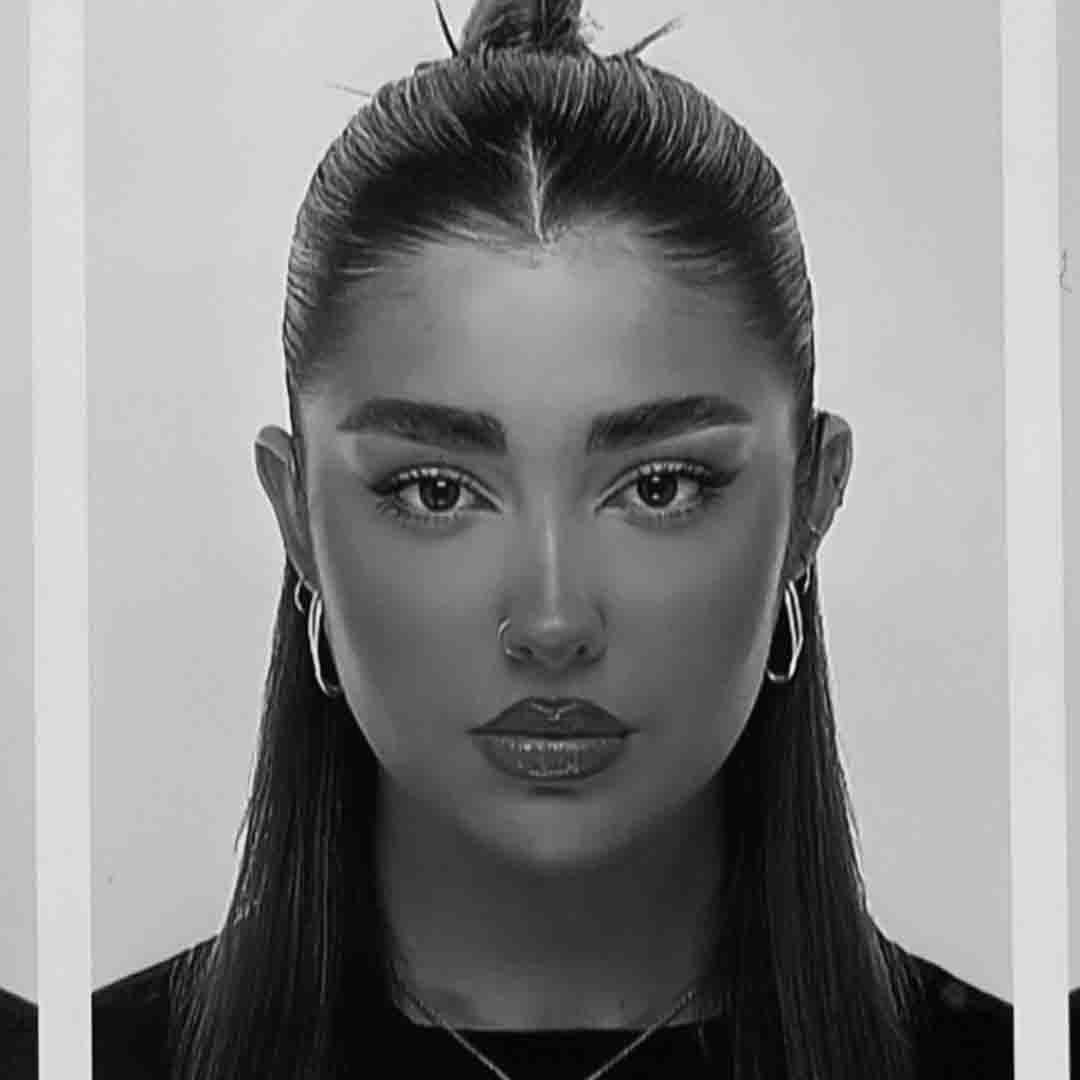
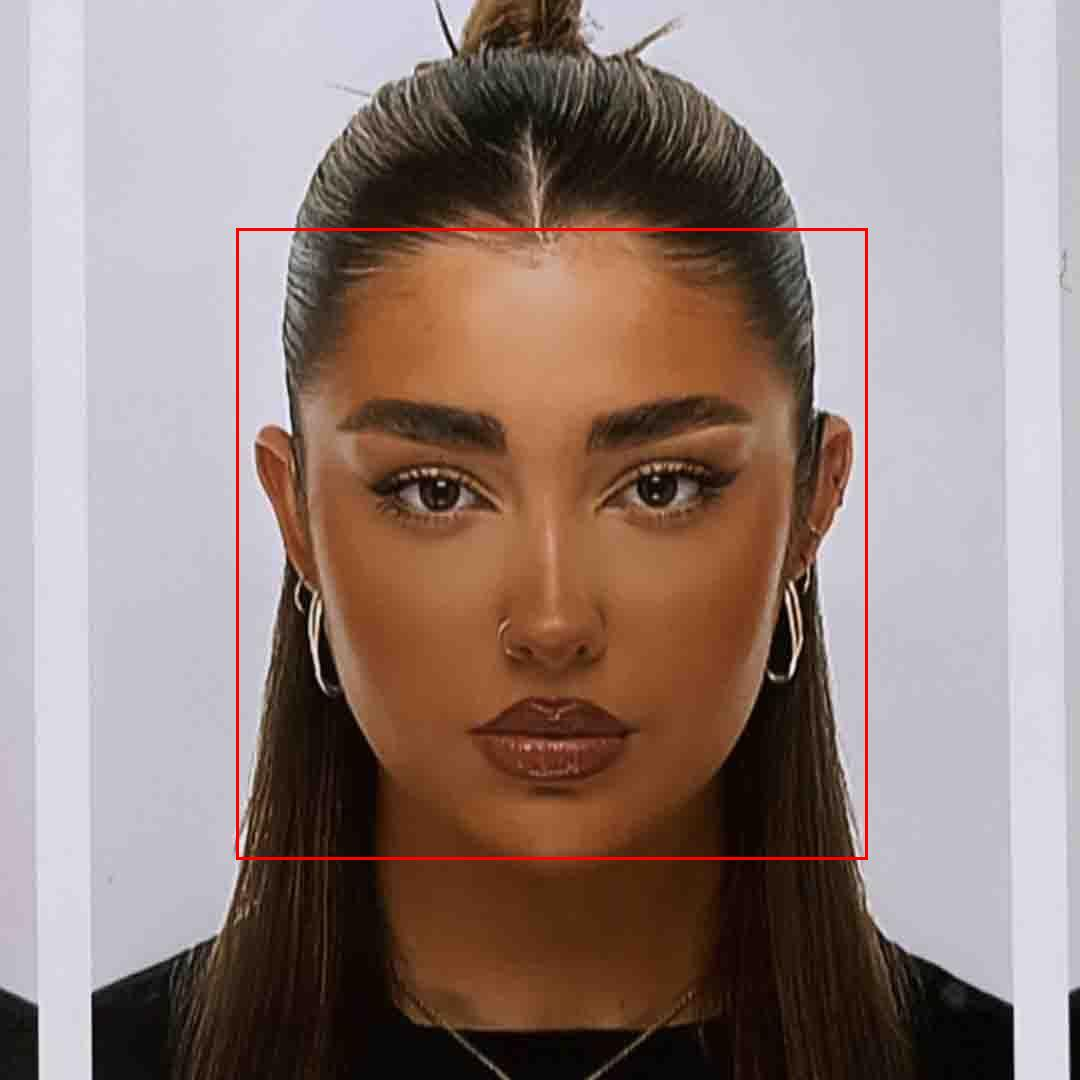
update

diff --git a/main.py b/main.py
@@ -221,27 +221,28 @@ def write(image_path, text, x, y):
 
 
 def detect_faces(image):
+    """
+    can detecte if there is a face
 
-    face_cascade = cv2.CascadeClassifier(cv2.data.haarcascades + 'haarcascade_frontalface_default.xml') # pour détecter l'image
-    open_cv_image = cv2.cvtColor(np.array(image), cv2.COLOR_RGB2BGR) # Converti l'image pil en tableau NumPy pour OpenCV
-    gray = cv2.cvtColor(open_cv_image, cv2.COLOR_BGR2GRAY) # converti l'image en niveaux de gris
+    args:
+    image, an image installed
+    """
+    try:
+        face_cascade = cv2.CascadeClassifier(cv2.data.haarcascades + 'haarcascade_frontalface_default.xml') # pour détecter l'image
+        open_cv_image = cv2.cvtColor(np.array(image), cv2.COLOR_RGB2BGR) # Converti l'image pil en tableau NumPy pour OpenCV
+        gray = cv2.cvtColor(open_cv_image, cv2.COLOR_BGR2GRAY) # converti l'image en niveaux de gris
+        face = face_cascade.detectMultiScale(gray, scaleFactor=1.1, minNeighbors=5) # détecte les visages
 
-    # Détecter les visages dans l'image
-    face = face_cascade.detectMultiScale(gray, scaleFactor=1.1, minNeighbors=5) # détecte les visage
+        draw = ImageDraw.Draw(image) # permet de pouvoir dessiner sur l'image
+        for (x, y, w, h) in face:
+            draw.rectangle([x, y, x + w, y + h], outline="red", width=3) # dessine les carré sur les tetes détectées
 
-    # vérifier si des visages ont été détectés
-    if len(face) == 0:
-        print("Aucun visage détecté.")
-    else:
-        print(f"{len(face)} visage(s) détecté(s).")
-
-    draw = ImageDraw.Draw(image) # permet de pouvoir dessiner sur l'image
-    for (x, y, w, h) in face:
-        draw.rectangle([x, y, x + w, y + h], outline="red", width=3) # dessine les carré sur les tetes détectées
-
-    image.save(currentmodifiedimg)
-
-    return
+        image.save(currentmodifiedimg)
+        Image.open(currentmodifiedimg).show()
+        log("Le(s) visage(s) a/ont bien été détecté.")
+    except Exception as e :
+        log(f"Erreur lors de la détection de visage : {e}")
+        print(f"Erreur lors de la détection de visage : {e}")
 
 
 # Fonction pour ajouter du texte à une image avec OpenCV
@@ -381,4 +382,4 @@ image2 = Image.open("img/meuf.jpg")
 
 #rotate(image2,90)
 
-detect_faces(image2)
+detect_faces("img/meuf.jpg")

diff --git a/cli.py b/cli.py
@@ -13,6 +13,8 @@ def print_help():
     print("-resize <largeur> <hauteur> : Redimensionne l'image")
     print("-write <texte> <x> <y> : Ajoute du texte à l'image")
     print("-showlist              : Ajoute toute les modifications à une liste d'images")
+    print("-watercolor              : Change les couleur en aquarelle")
+    print("-face              : Détection des visages")
     print("-help, -h              : Affiche l'aide")
 
 def process_command(args):
@@ -26,7 +28,7 @@ def process_command(args):
 
     try:
 
-        if command not in ["-write", "-help", "-h"]:
+        if command not in ["-help", "-h"]:
             image = Image.open(image_path)
 
         if command == "-grey":
@@ -75,6 +77,9 @@ def process_command(args):
             y = int(args[5])
             write(image_path, text, x, y)
             print("Texte ajouté à l'image avec succès.")
+
+        elif command == "-face":
+            detect_faces(image_path)
 
         elif command in ["-help", "-h"]:
             print_help()
